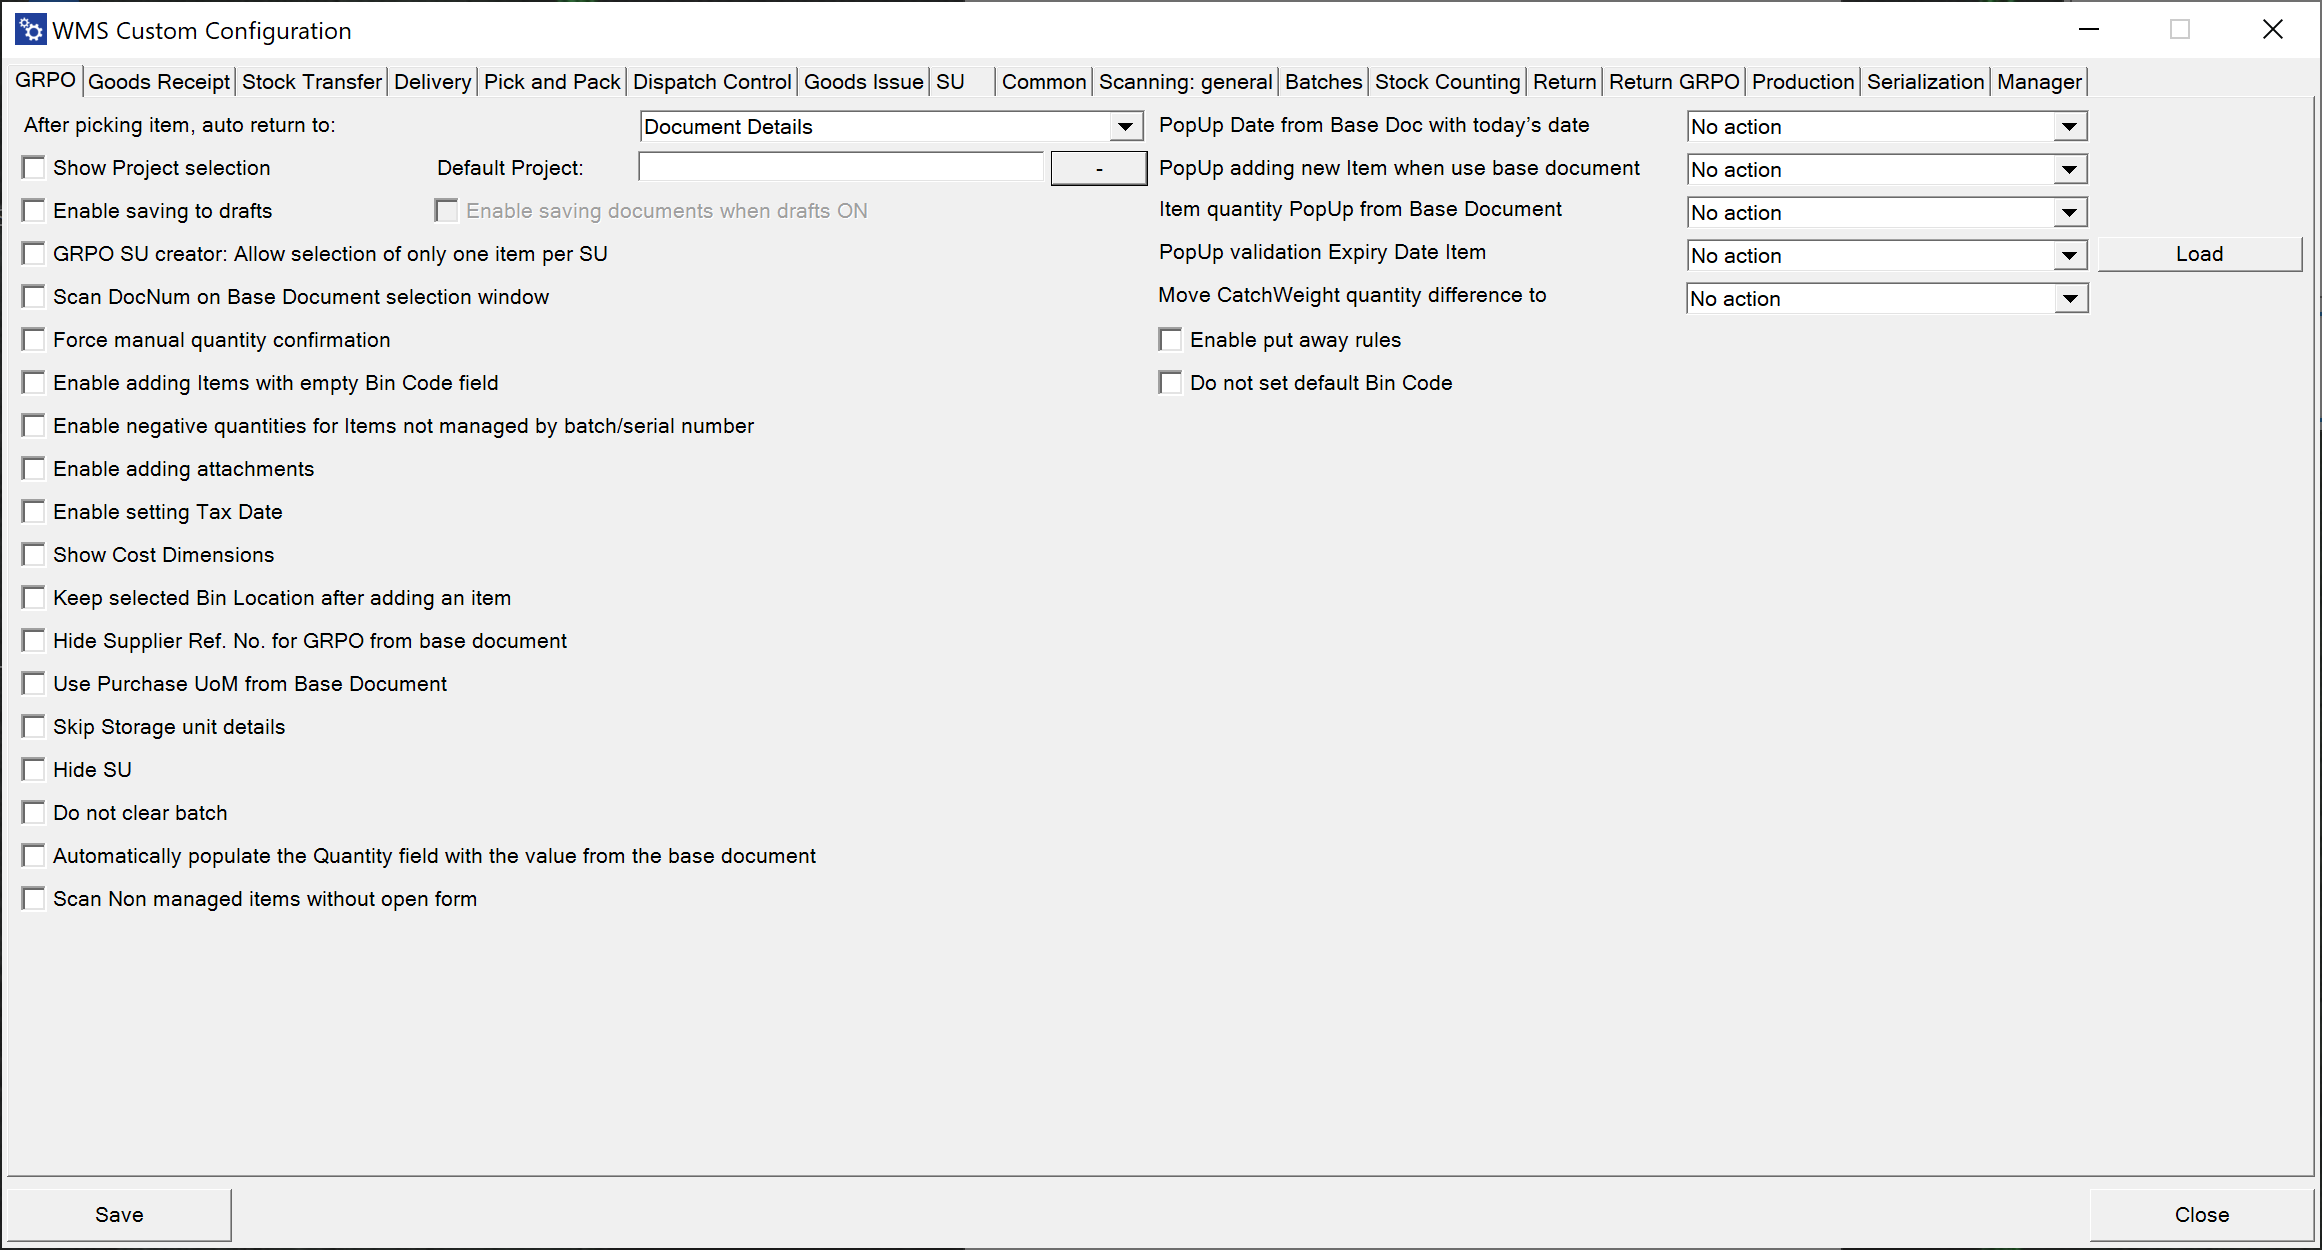
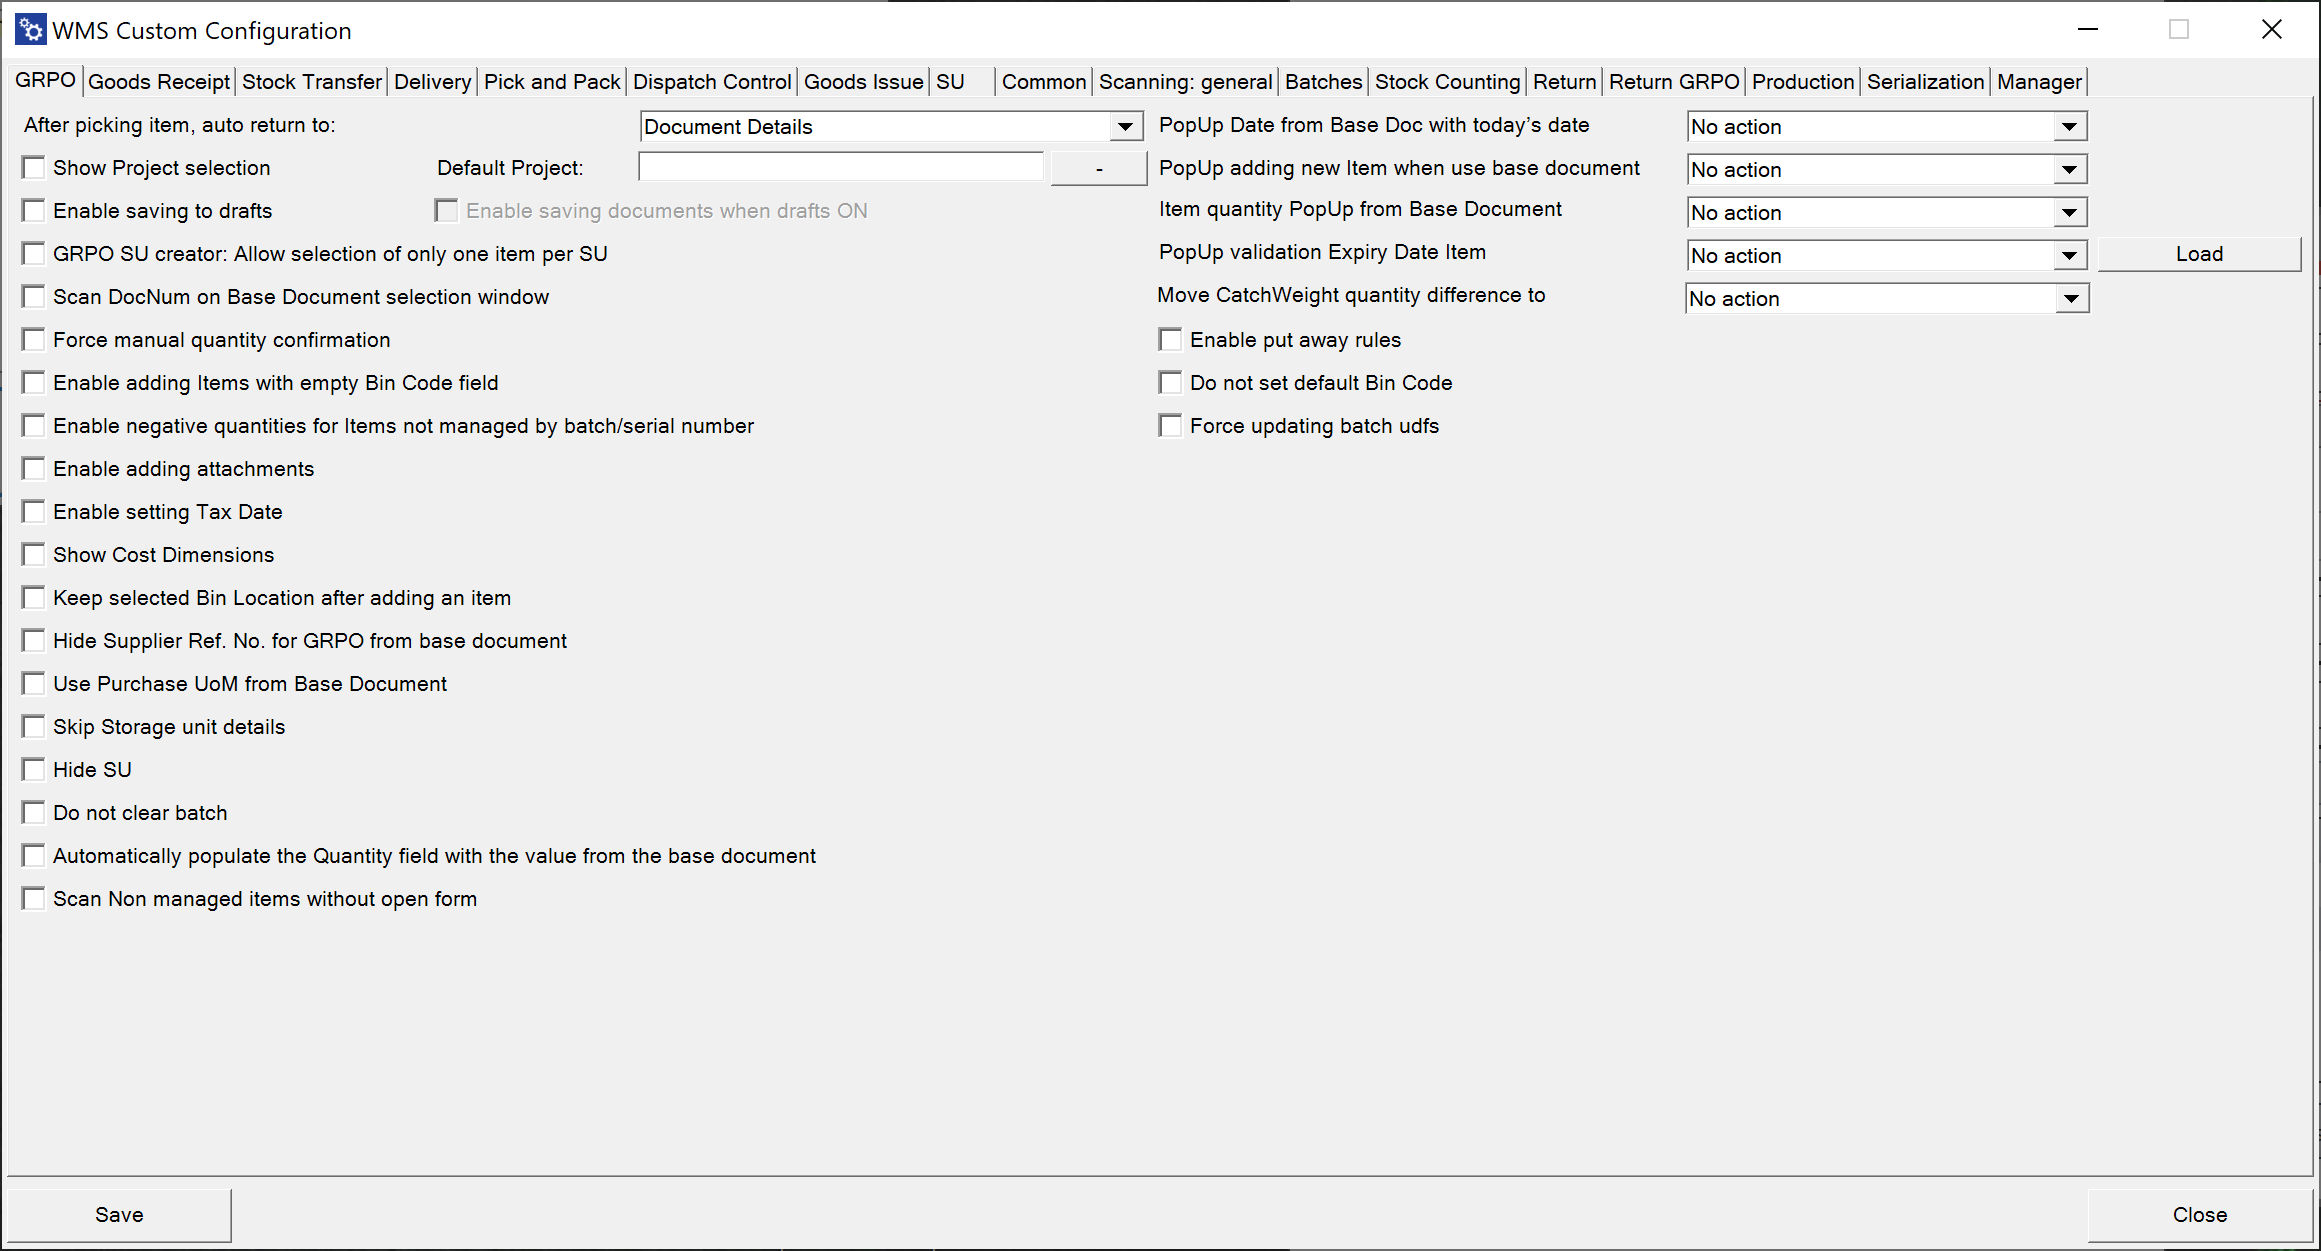
update

diff --git a/docs/wms/administrator-guide/custom-configuration/custom-configuration-functions/grpo.md b/docs/wms/administrator-guide/custom-configuration/custom-configuration-functions/grpo.md
@@ -133,6 +133,8 @@ This guide provides an overview of recent updates to the Goods Receipt PO (GRPO)
 
 26. **Do not set default Bin Code**: The Location field is left blank. The user must select it manually or scan the barcode.
 
+27. **Force updating batch udfs**: This option enables you to update and overwrite the UDF values for batches that already exist.
+
 ## Changes
 
 Old View of the Goods Receipt PO Tab
